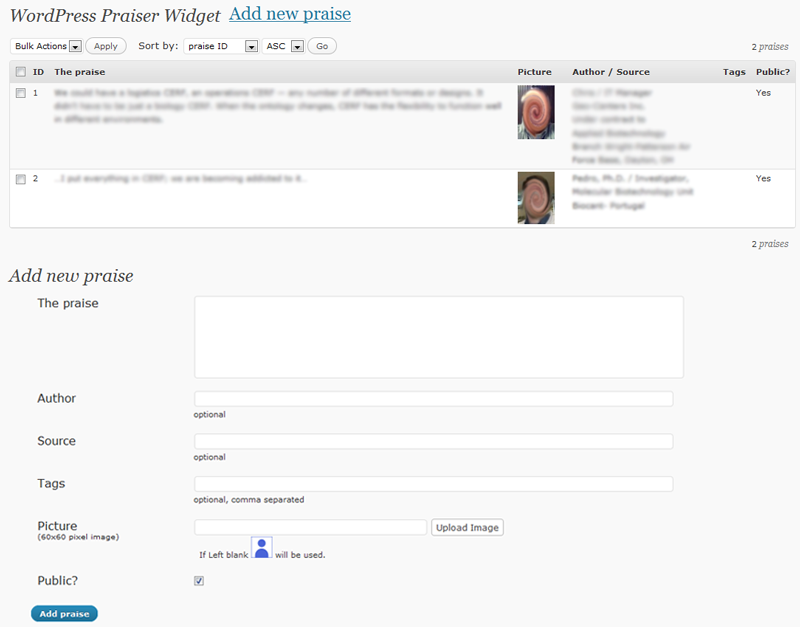
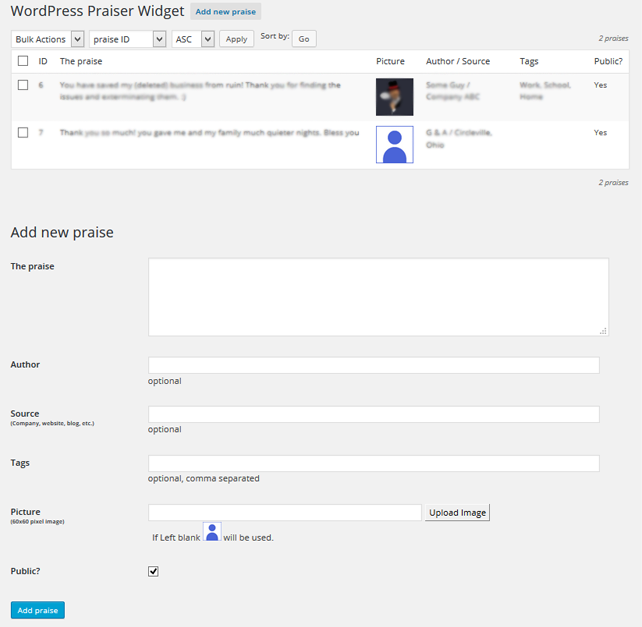
= 1.5 = This version fixed several issues caused during installs.
git-svn-id: https://plugins.svn.wordpress.org/wordpress-praiser/trunk@1178989 b8457f37-d9ea-0310-8a92-e5e31aec5664

diff --git a/css/wp-praiser.css b/css/wp-praiser.css
@@ -1,0 +1,41 @@
+.wp_praiser_praise q {
+}
+.wp_praiser_praise cite {
+	display:block; /* To display author and source in a new line */
+	text-align:left; 
+}
+.wp_praiser_author { 
+	font-style: italic;
+	font-weight:bold;
+}
+.wp_praiser_source { 
+	font-style: normal;
+}
+q:lang(en)
+{
+	quotes: "“" "”" "‘" "’";
+}
+.wp_praiser_praises { 
+	position: relative;
+}
+.wp_praiser_praise { 
+	position: absolute; 
+	top: 0;
+	left: 0;
+	display: none;
+}
+.wp_praiser_praises .wp_praiser_active {
+	display: block;
+}
+.wp_praiser_praises p {
+	margin: 5px 5px 5px 5px;
+}
+.wp_praiser_praises img {
+	margin: 5px 5px 5px 5px;
+	height:60px;
+	width:60px;
+}
+
+h4.wp_praiser {
+	margin: 0;
+}

diff --git a/wp-praiser-admin.php b/wp-praiser-admin.php
@@ -140,6 +140,8 @@ function wp_praiser_addpraise($praise, $author = "", $source = "", $tags = "", $
 		$praise = "'".$wpdb->escape($praise)."'";
 		$author = $author?"'".$wpdb->escape($author)."'":"NULL";
 		$source = $source?"'".$wpdb->escape($source)."'":"NULL";
+		$img_name = $img_name?"'".$wpdb->escape($img_name)."'":"NULL";
+
 		$tags = explode(',', $tags);
 		foreach ($tags as $key => $tag)
 			$tags[$key] = trim($tag);
@@ -179,7 +181,7 @@ function wp_praiser_editpraise($praise_id, $praise, $author = "", $source = "", 
 		$source = $source?"'".$wpdb->escape($source)."'":"NULL";
 		$tags = explode(',', $tags);
 		$img_name = $img_name?"'".$wpdb->escape($img_name)."'":"NULL";
-		echo "$img_name";
+//		echo "$img_name";
 		foreach ($tags as $key => $tag)
 			$tags[$key] = trim($tag);
 		$tags = implode(',', $tags);
@@ -245,7 +247,6 @@ function wp_praiser_editform($praise_id = 0)
 		$praise = htmlspecialchars($praise);
 		$author = htmlspecialchars($author);
 		$source = htmlspecialchars($source);
-//		$img_name = str_replace("&#47;", "/", $img_name);
 		$tags = implode(', ', explode(',', $tags));
 		$hidden_input = "<input type=\"hidden\" name=\"praise_id\" value=\"{$praise_id}\" />";
 		if($public == 'no') $public_selected = "";
@@ -256,14 +257,13 @@ function wp_praiser_editform($praise_id = 0)
 
 	$praise_label = __('The praise', 'wp-praiser');
 	$author_label = __('Author', 'wp-praiser');
-	$source_label = __('Source', 'wp-praiser');
+	$source_label = __('Source<BR><small><small>(Company, website, blog, etc.)</small></small>', 'wp-praiser');
 	$tags_label = __('Tags', 'wp-praiser');
 	$public_label = __('Public?', 'wp-praiser');
 	$optional_text = __('optional', 'wp-praiser');
 	$comma_separated_text = __('comma separated', 'wp-praiser');
 	$img_name_label = __('Picture<BR><small><small>(60x60 pixel image)</small></small>', 'wp-praiser');
-	$img_generic = __(plugins_url(). '/wp-praiser/60x60.png', 'wp-praiser');
-	$upload_image_url = __(bloginfo('name'). '/wp-admin/media-upload.php?type=image&amp;TB_iframe=true&amp;width=640&amp;height=105', 'wp-praiser');
+	$img_generic = __(plugins_url(). '/wordpress-praiser/60x60.png', 'wp-praiser');
 
 	$display =<<< EDITFORM
 <form name="{$form_name}" method="post" action="{$action_url}">
@@ -287,7 +287,41 @@ function wp_praiser_editform($praise_id = 0)
 		</tr>
 		<tr>
 			<th style="text-align:left;" scope="row" valign="top"><label for="wp_praiser_img_name">{$img_name_label}</label></th>
-			<td valign="top"><label for="upload_image"><input type="text" id="wp_praiser_img_name" name="img_name" size="50" value="{$img_name}" /> <input id="upload_image_button" type="button" value="Upload Image" />
+			<td valign="top"><label for="upload_image">
+<input type="text" id="wp_praiser_img_name" name="img_name" size="50" value="{$img_name}" /> 
+			
+    <input class="upload_image_button" type="button" value="Upload Image" />
+
+
+<script type="text/javascript">
+    //tb_show('', 'media-upload.php?TB_iframe=true');
+    var upload_image_button=false;
+    jQuery(document).ready(function() {
+
+    jQuery('.upload_image_button').click(function() {
+        upload_image_button =true;
+        formfieldID=jQuery(this).prev().attr("id");
+     formfield = jQuery("#"+formfieldID).attr('name');
+     tb_show('', 'media-upload.php?type=image&amp;TB_iframe=true');
+        if(upload_image_button==true){
+
+                var oldFunc = window.send_to_editor;
+                window.send_to_editor = function(html) {
+
+                imgurl = jQuery('img', html).attr('src');
+                jQuery("#"+formfieldID).val(imgurl);
+                 tb_remove();
+                window.send_to_editor = oldFunc;
+                }
+        }
+        upload_image_button=false;
+    });
+
+
+    })
+
+</script>		
+			
 		<br />&nbsp;&nbsp;If Left blank <img height="30" width="30" src="{$img_generic}"> will be used.<BR>
 		</label>
 
@@ -447,7 +481,7 @@ function wp_praiser_praises_management()
 	
 	foreach($praises as $praise_data) {
 		if ($praise_data->img_name=="") {
-    	$img_name = plugins_url(). "/wp-praiser/60x60.png";
+    	$img_name = plugins_url(). "/wordpress-praiser/60x60.png";
     } else {
         $img_name = $praise_data->img_name;
 	}
@@ -461,7 +495,7 @@ function wp_praiser_praises_management()
 		$praises_list .= wptexturize(nl2br(make_clickable($praise_data->praise)));
     	$praises_list .= "<div class=\"row-actions\"><span class=\"edit\"><a href=\"{$admin_url}&action=editpraise&amp;id=".$praise_data->praise_id."\" class=\"edit\">".__('Edit', 'wp-praiser')."</a></span> | <span class=\"trash\"><a href=\"{$admin_url}&action=delpraise&amp;id=".$praise_data->praise_id."\" onclick=\"return confirm( '".__('Are you sure you want to delete this praise?', 'wp-praiser')."');\" class=\"delete\">".__('Delete', 'wp-praiser')."</a></span></div>";
 		$praises_list .= "</td>";
-		$praises_list .= "<td><img src=$img_name></td>";
+		$praises_list .= "<td><img height=60 width=60 src=$img_name></td>";
 		$praises_list .= "<td>" . make_clickable($praise_data->author);
 		if($praise_data->author && $praise_data->source)
 			$praises_list .= " / ";

diff --git a/wp-praiser.php b/wp-praiser.php
@@ -2,12 +2,12 @@
 /*
 Plugin Name: WordPress Praiser
 Description: WordPress Praiser plugin lets you display Praises (or Testimonials) in a sidebar on your WordPress blog or fill a whole page using a short code. This plugin allows for an image of the prasier.
-Version: 1.3
+Version: 1.5
 Author: cShellFranklin
 License: GPL2
 */
 
-/*  Copyright 2011 cShellFranklin
+/*  Copyright 2015 cShellFranklin
 
     This program is free software; you can redistribute it and/or modify
     it under the terms of the GNU General Public License as published by
@@ -29,7 +29,7 @@ License: GPL2
 /*  Refer http://codex.wordpress.org/Roles_and_Capabilities */
 $wp_praiser_admin_userlevel = 'edit_posts'; 
 
-$wp_praiser_db_version = '1.3'; 
+$wp_praiser_db_version = '1.5'; 
 
 require_once('wp-praiser-widget.php');
 require_once('wp-praiser-admin.php');
@@ -100,7 +100,7 @@ EOF;
 	$first = true;
 	foreach ($praises as $praise) {
     if ($praise['img_name']=="") {
-    	$img_name = plugins_url(). "/wp-praiser/60x60.png";
+    	$img_name = plugins_url(). "/wordpress-praiser/60x60.png";
     } else {
         $img_name = $praise['img_name'];
 	}
@@ -111,6 +111,7 @@ EOF;
                 content:"";
             }
         </style>
+       
 <?PHP
 
 	}
@@ -193,7 +194,7 @@ if($tags) {
 	$first = true;
 	foreach ($praises as $praise) {
     if ($praise['img_name']=="") {
-    	$img_name = plugins_url(). "/wp-praiser/60x60.png";
+    	$img_name = plugins_url(). "/wordpress-praiser/60x60.png";
     } else {
         $img_name = $praise['img_name'];
 	}
@@ -216,7 +217,7 @@ if($tags) {
 		$html .= '<table style="border:none; vertical-align:middle; margin: 0; padding: 5px 5px 5px 5px;">';
 		$html .= "<p style='font-size: " . $char_size . "px;'>";
 		
-		$html .= "<img src=". $img_name ." style='float: left; margin: auto 4px;'>";
+		$html .= "<img src=". $img_name ." style='float: left; margin: auto 4px; height:80px; width:80px;'>";
 		$html .= "</P></TD><TD style='width: 100%;'>";
 		$html .= "<p style='font-size: " . $char_size . "px; width: 80%;'>";
 		$html .= "<q>". $praise['praise'] ."";
@@ -313,7 +314,7 @@ function wp_praiser_install()
 function wp_praiser_css_head() 
 {
 	?>
-	<link rel="stylesheet" type="text/css" href="<?php echo plugins_url(); ?>/wp-praiser/wp-praiser.css" />
+	<link rel="stylesheet" type="text/css" href="<?php echo plugins_url(); ?>/wordpress-praiser/css/wp-praiser.css" />
 	<?php
 }
 
